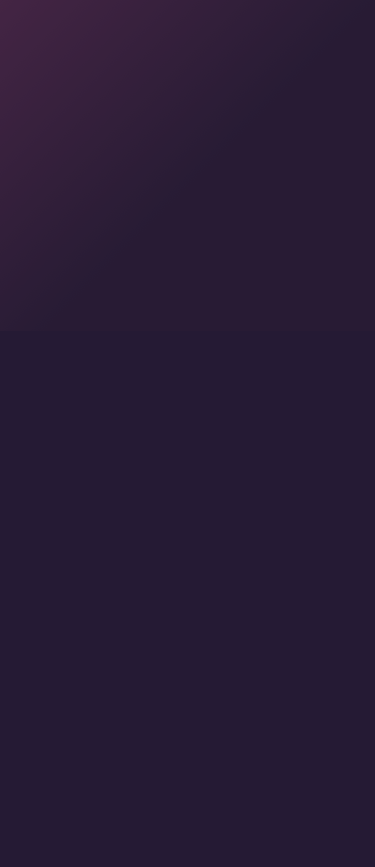
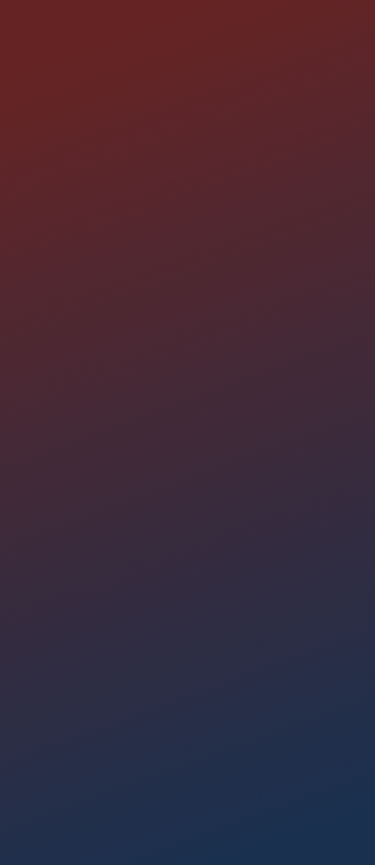
feat: replace background wallpaper, uses wallpaper component in Dashboard screen

diff --git a/app/screens/Dashboard/index.tsx b/app/screens/Dashboard/index.tsx
@@ -1,15 +1,20 @@
 import React from 'react'
-import { Screen, Header } from '../../components'
+import { View } from "react-native"
+import { Screen, Header, Wallpaper } from '../../components'
 // import { useNavigation } from '@react-navigation/native'
 import createScreen from '../createScreen'
+import styles from './styles'
 
 export default createScreen('Dashboard', (props) => {
 // Pull in navigation via hook
 // const navigation = useNavigation()
 // const { usersList } = props
   return (
-    <Screen preset="scroll">
-      <Header headerText="dashboard" />
-    </Screen>
+    <View style={styles.FULL}>
+      <Wallpaper />
+      <Screen preset="scroll">
+        <Header headerText="dashboard" />
+      </Screen>
+    </View>
   )
 })

diff --git a/app/components/screen/screen.presets.ts b/app/components/screen/screen.presets.ts
@@ -1,6 +1,5 @@
 import { ViewStyle } from 'react-native'
 import { isNil } from 'ramda'
-import { color } from '../../theme'
 
 /**
  * All screen keyboard offsets.
@@ -24,7 +23,6 @@ export const presets = {
    */
   fixed: {
     outer: {
-      backgroundColor: color.background,
       flex: 1,
       height: '100%',
     } as ViewStyle,
@@ -43,7 +41,6 @@ export const presets = {
    */
   scroll: {
     outer: {
-      backgroundColor: color.background,
       flex: 1,
       height: '100%',
     } as ViewStyle,

diff --git a/app/screens/Dashboard/styles.ts b/app/screens/Dashboard/styles.ts
@@ -1,0 +1,5 @@
+import { ViewStyle } from "react-native"
+
+const FULL: ViewStyle = { flex: 1 }
+
+export default { FULL }
